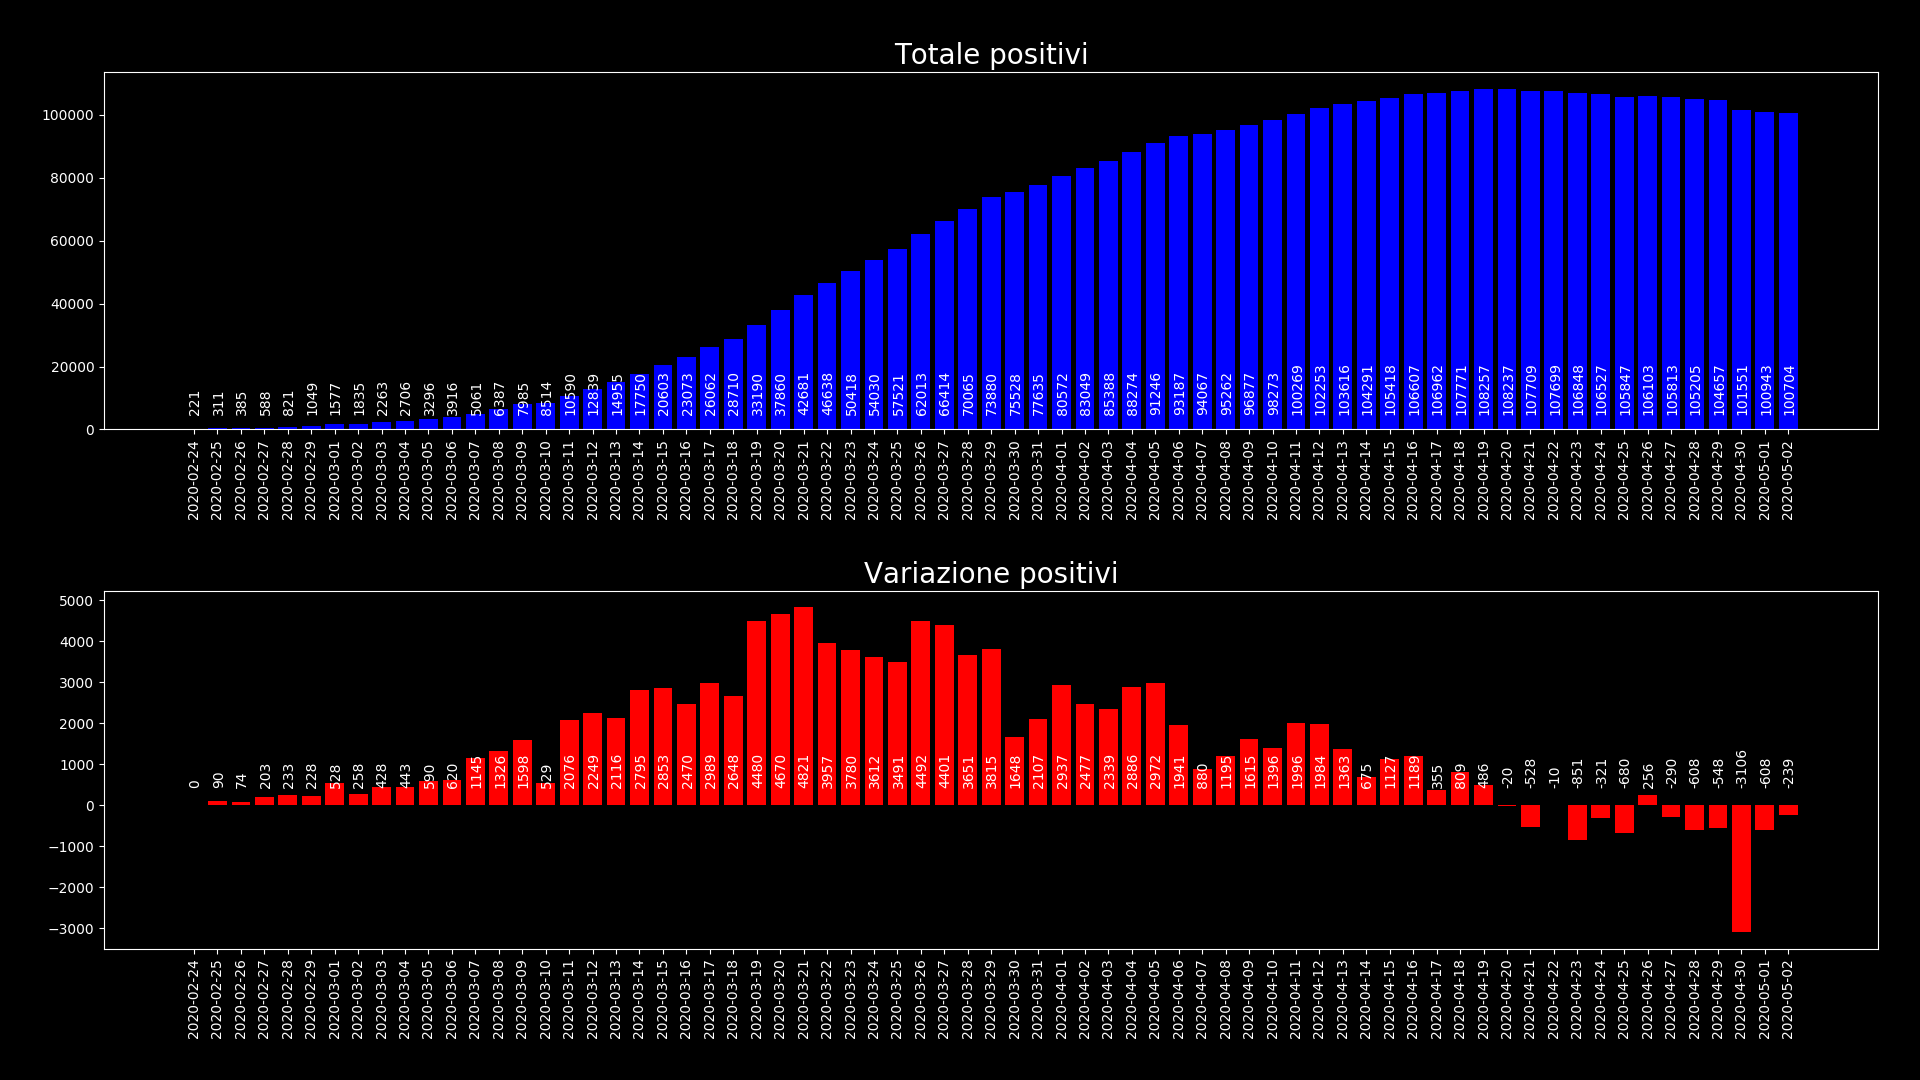
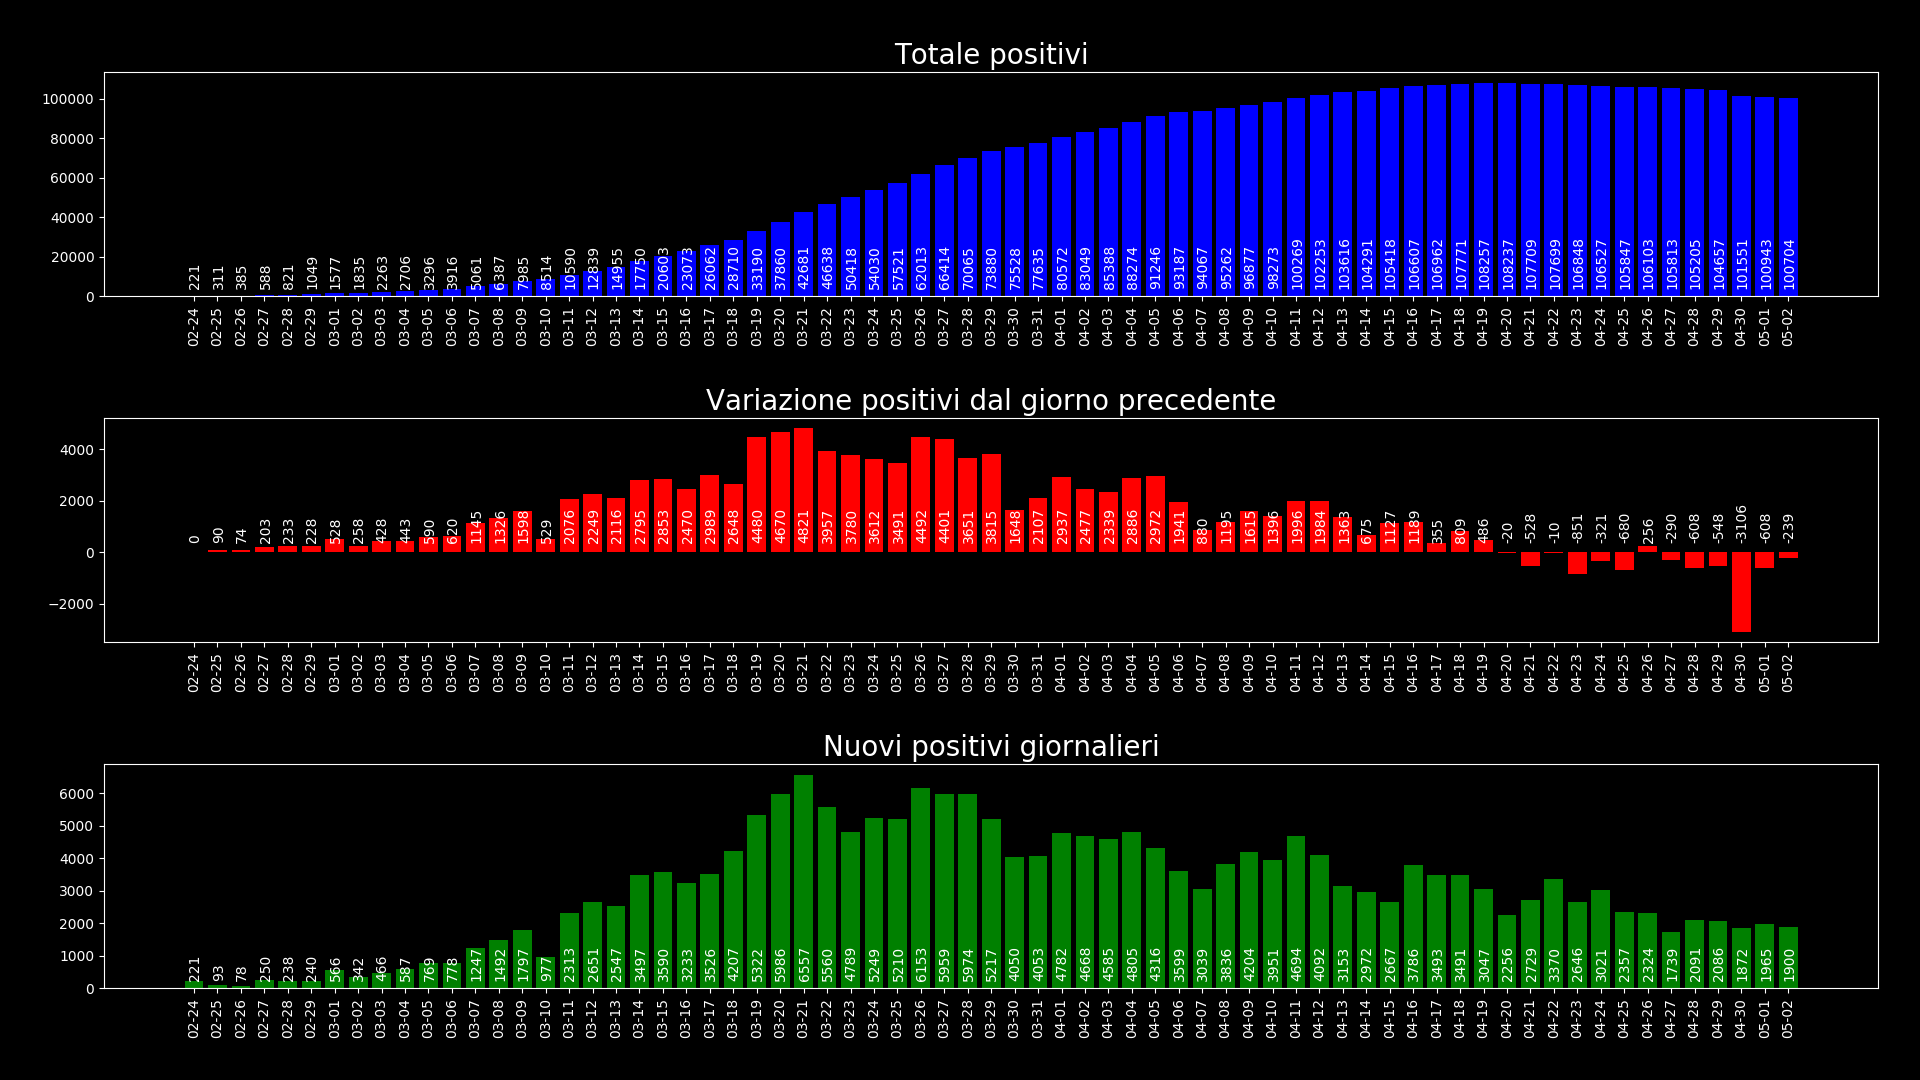
Added newpos graph

diff --git a/covid19graphs/src/totposandnewpos.py b/covid19graphs/src/totposandnewpos.py
@@ -2,63 +2,69 @@ import matplotlib.pyplot as plt
 import numpy as np
 import pandas as pd
 
+#Funzione che rimuove da un dataframe nel campo 'data' gli orari
+def filter_date(dataframe): 
+    fixeddate = []
 
-def removehour(element):
-    templist = element.split('T')
-    return templist[0]
+    for h in dataframe.index:
+        h = h.split('T')[0]
+        (year, month, day) = h.split('-')
+        h = month + "-" + day
+        fixeddate.append(h)
 
+    #Sostituisco l'indice con i nuovi dati
+    dataframe.index = fixeddate
+    return
+
+def add_text_overbar(dataframe, title, color, offset, ax):
+    for i, v in enumerate(dataframe[title]):
+            ax.text(i-0.25, offset*max(dataframe[title]), str(v), rotation=90, color=color)
+
+def rotate_ticks(axes):
+    for ax in axes:
+        for tick in ax.get_xticklabels():
+            tick.set_rotation(90)
 
 def main():
     dataframe = pd.read_csv("dpc-covid19-ita-andamento-nazionale.csv", sep=",", index_col=0)
 
     # Rimuovo gli orari, tengo la data
-    fixeddate = []
-    for h in dataframe.index:
-        h = h.split('T')[0]
-        fixeddate.append(h)
-
-    #Sostituisco l'indice con i nuovi dati
-    dataframe.index = fixeddate
+    filter_date(dataframe)
 
     #tema nero
     plt.style.use('dark_background')
 
-    #genero la figura e l'array a due posizioni per i due plot
-    figure, axes = plt.subplots(2, 1)
-    #x è sempre i giorni
+    #genero la figura e l'array a tre posizioni per i tre plot
+    figure, axes = plt.subplots(3, 1)
+    #x sono sempre i giorni
     x = dataframe.index
-    y = dataframe['totale_positivi']
+
+    #Sezione totale positivi
     axes[0].set_title('Totale positivi', fontsize=20)
-    
-    #Inseisco etichette per ogni barra
-    for i, v in enumerate(y):
-            axes[0].text(i-0.25, 1/20*max(y), str(v), rotation=90)
-
+    #Inserisco etichette per ogni barra
+    add_text_overbar(dataframe, 'totale_positivi', "white", 1/20, axes[0])
     #axes[0] conterrà il primo grafico a barre
-    axes[0].bar(x, y, color="blue")
+    axes[0].bar(x, dataframe['totale_positivi'], color="blue")
 
+    #Sezione variazione positivi
+    axes[1].set_title('Variazione positivi dal giorno precedente', fontsize=20)
+    #Inserisco etichette per ogni barra
+    add_text_overbar(dataframe, 'variazione_totale_positivi', "white", 1/10, axes[1])
+    #axes[1] conterrà il secondo grafico a barre
+    axes[1].bar(x, dataframe['variazione_totale_positivi'], color="red")
 
-    y = dataframe['variazione_totale_positivi']
-    axes[1].set_title('Variazione positivi', fontsize=20)
-    
-    #Inseisco etichette per ogni barra
-    for i, v in enumerate(y):
-        axes[1].text(i-0.25, 1/10*max(y), str(v), rotation=90)
+    #Sezione nuovi positivi per giorno
+    axes[2].set_title('Nuovi positivi giornalieri', fontsize=20)
+    #Inserisco etichette per ogni barra
+    add_text_overbar(dataframe, 'nuovi_positivi', "white", 1/20, axes[2])
+    #axes[2] conterrà il secondo grafico a barre
+    axes[2].bar(x, dataframe['nuovi_positivi'], color="green")
 
-
-    #axes[0] conterrà il secondo grafico a barre
-    axes[1].bar(x, y, color="red")
-
-
-    #Ruoto i label sull'asse delle x in verticale
-    for tick in axes[0].get_xticklabels():
-        tick.set_rotation(90)
-
-    for tick in axes[1].get_xticklabels():
-        tick.set_rotation(90)
+    #Ruoto le etichette sull'asse x in verticale
+    rotate_ticks(axes)
 
     #Modifico le dimensioni della figura e salvo la figura
-    figure.set_size_inches(19.2, 10.8)
+    figure.set_size_inches(19.2, 10.8)  #Imposto 1920x1080
     figure.tight_layout(pad=3.0)
     figure.savefig("../assets/totposandvariation.png", dpi=100)
 
